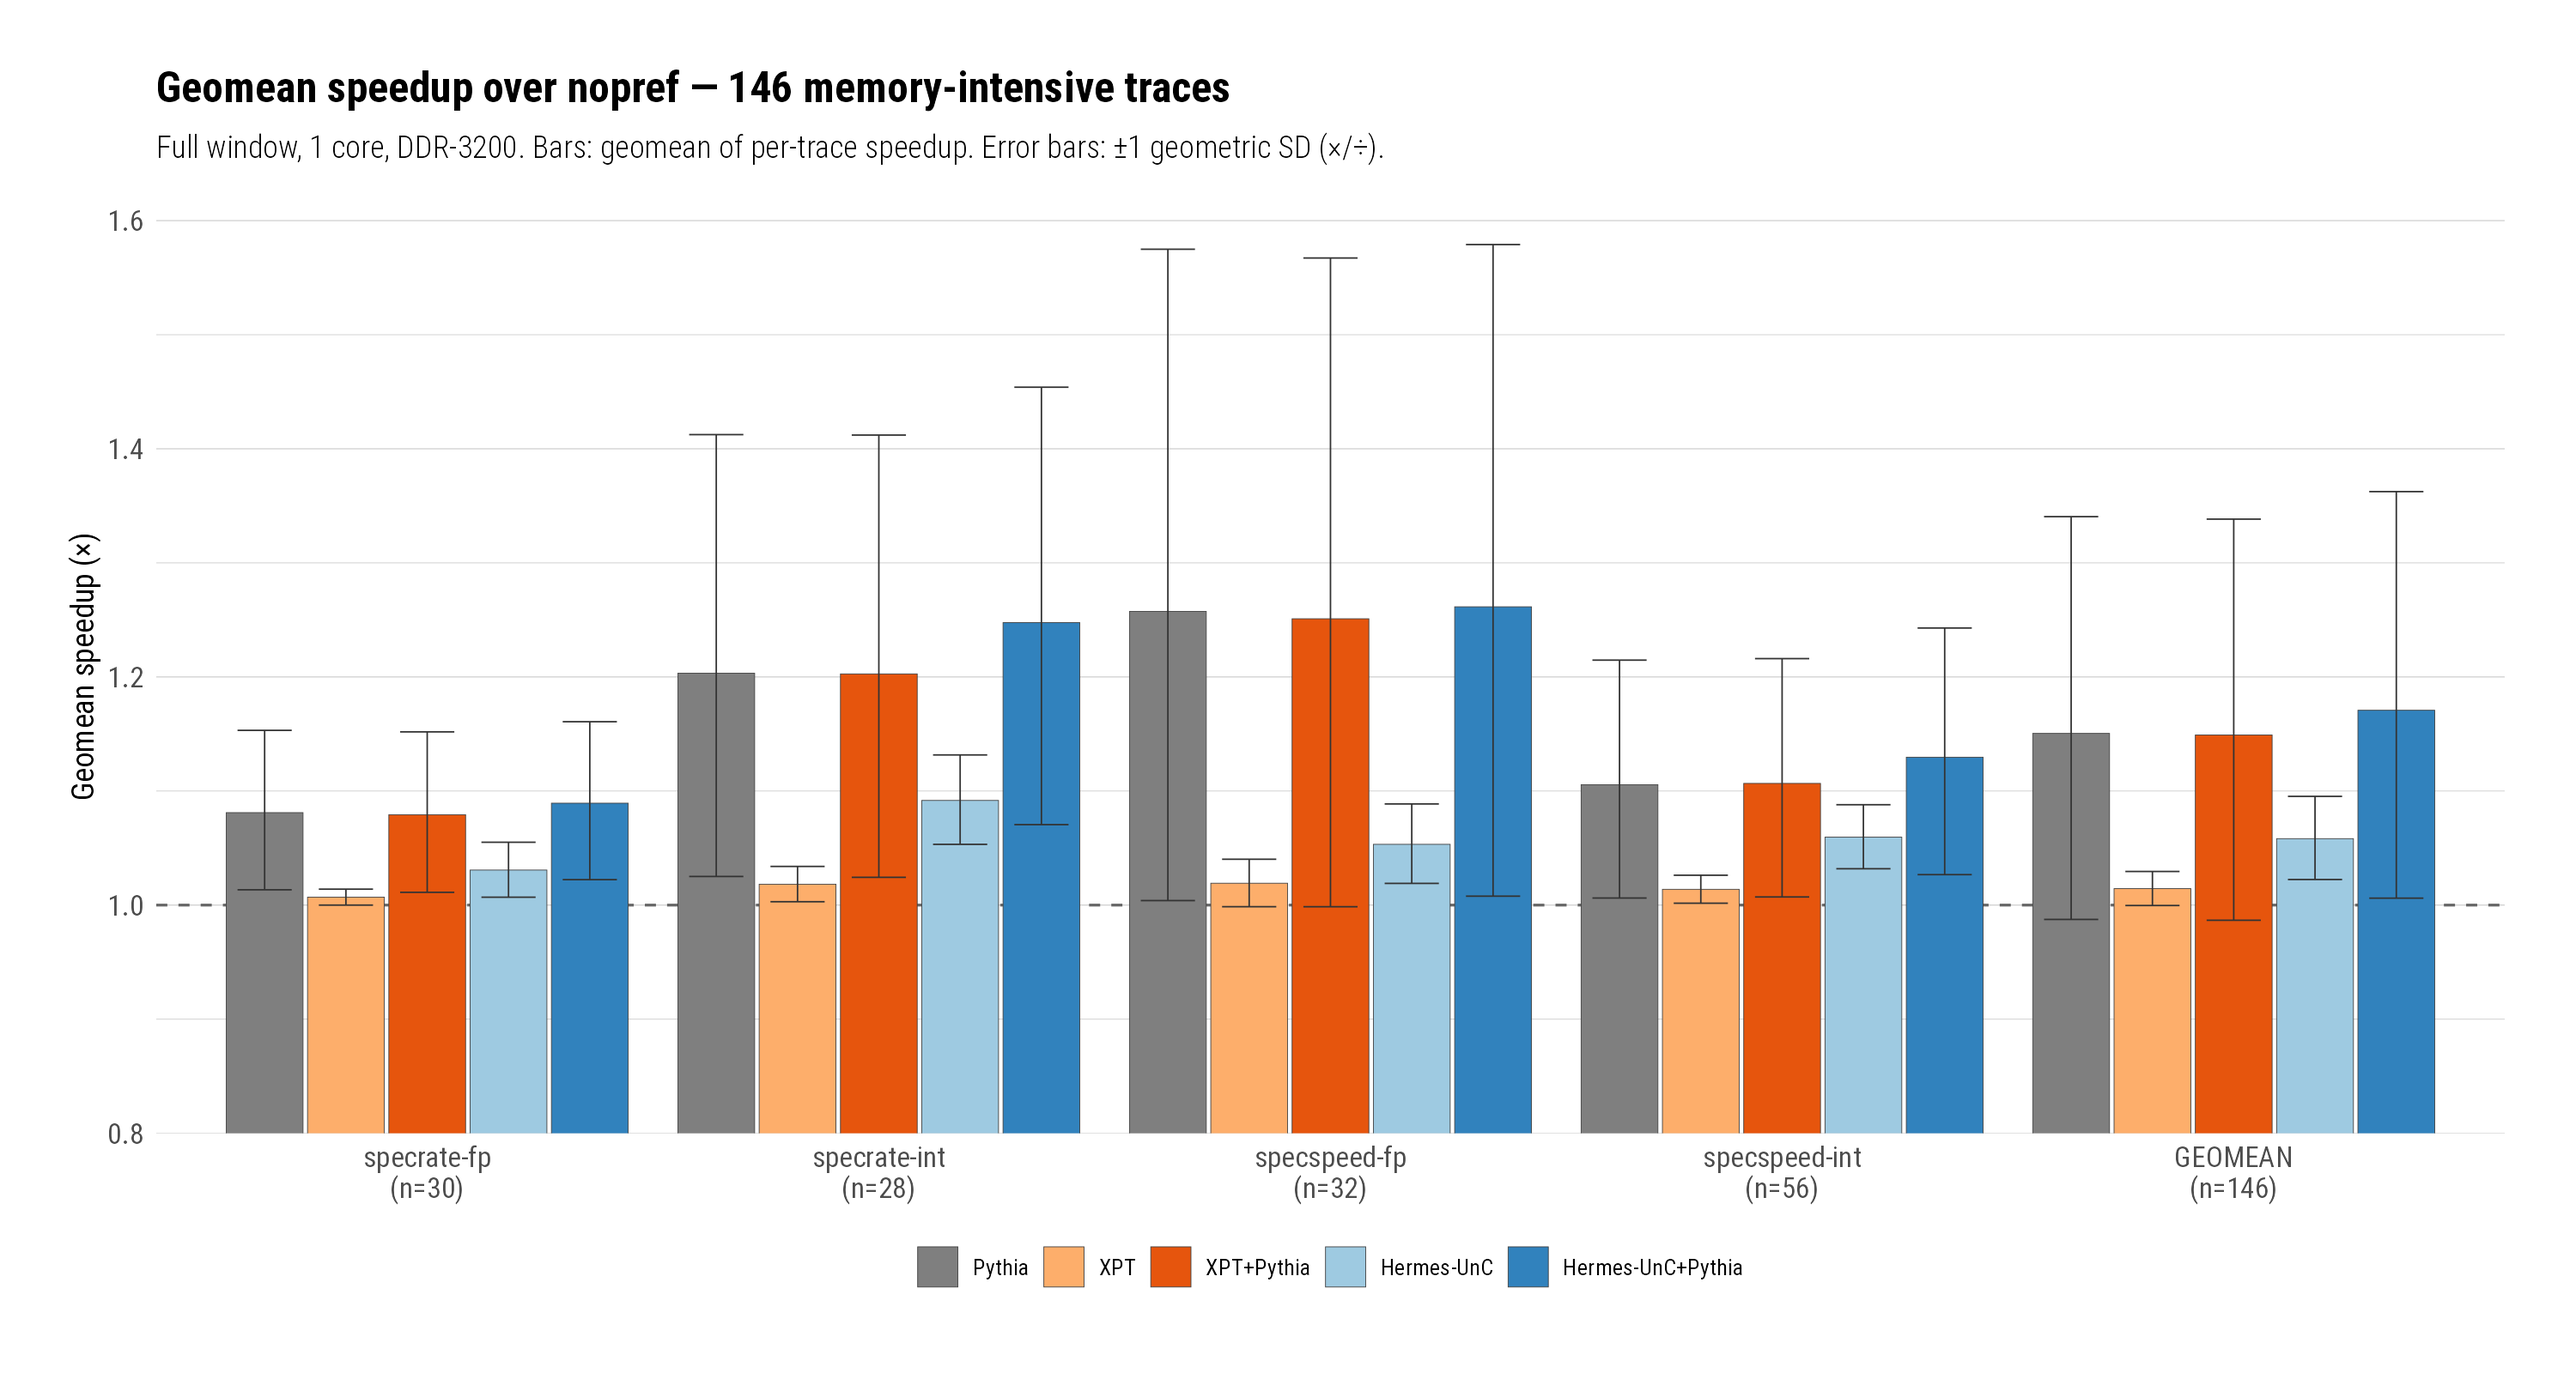
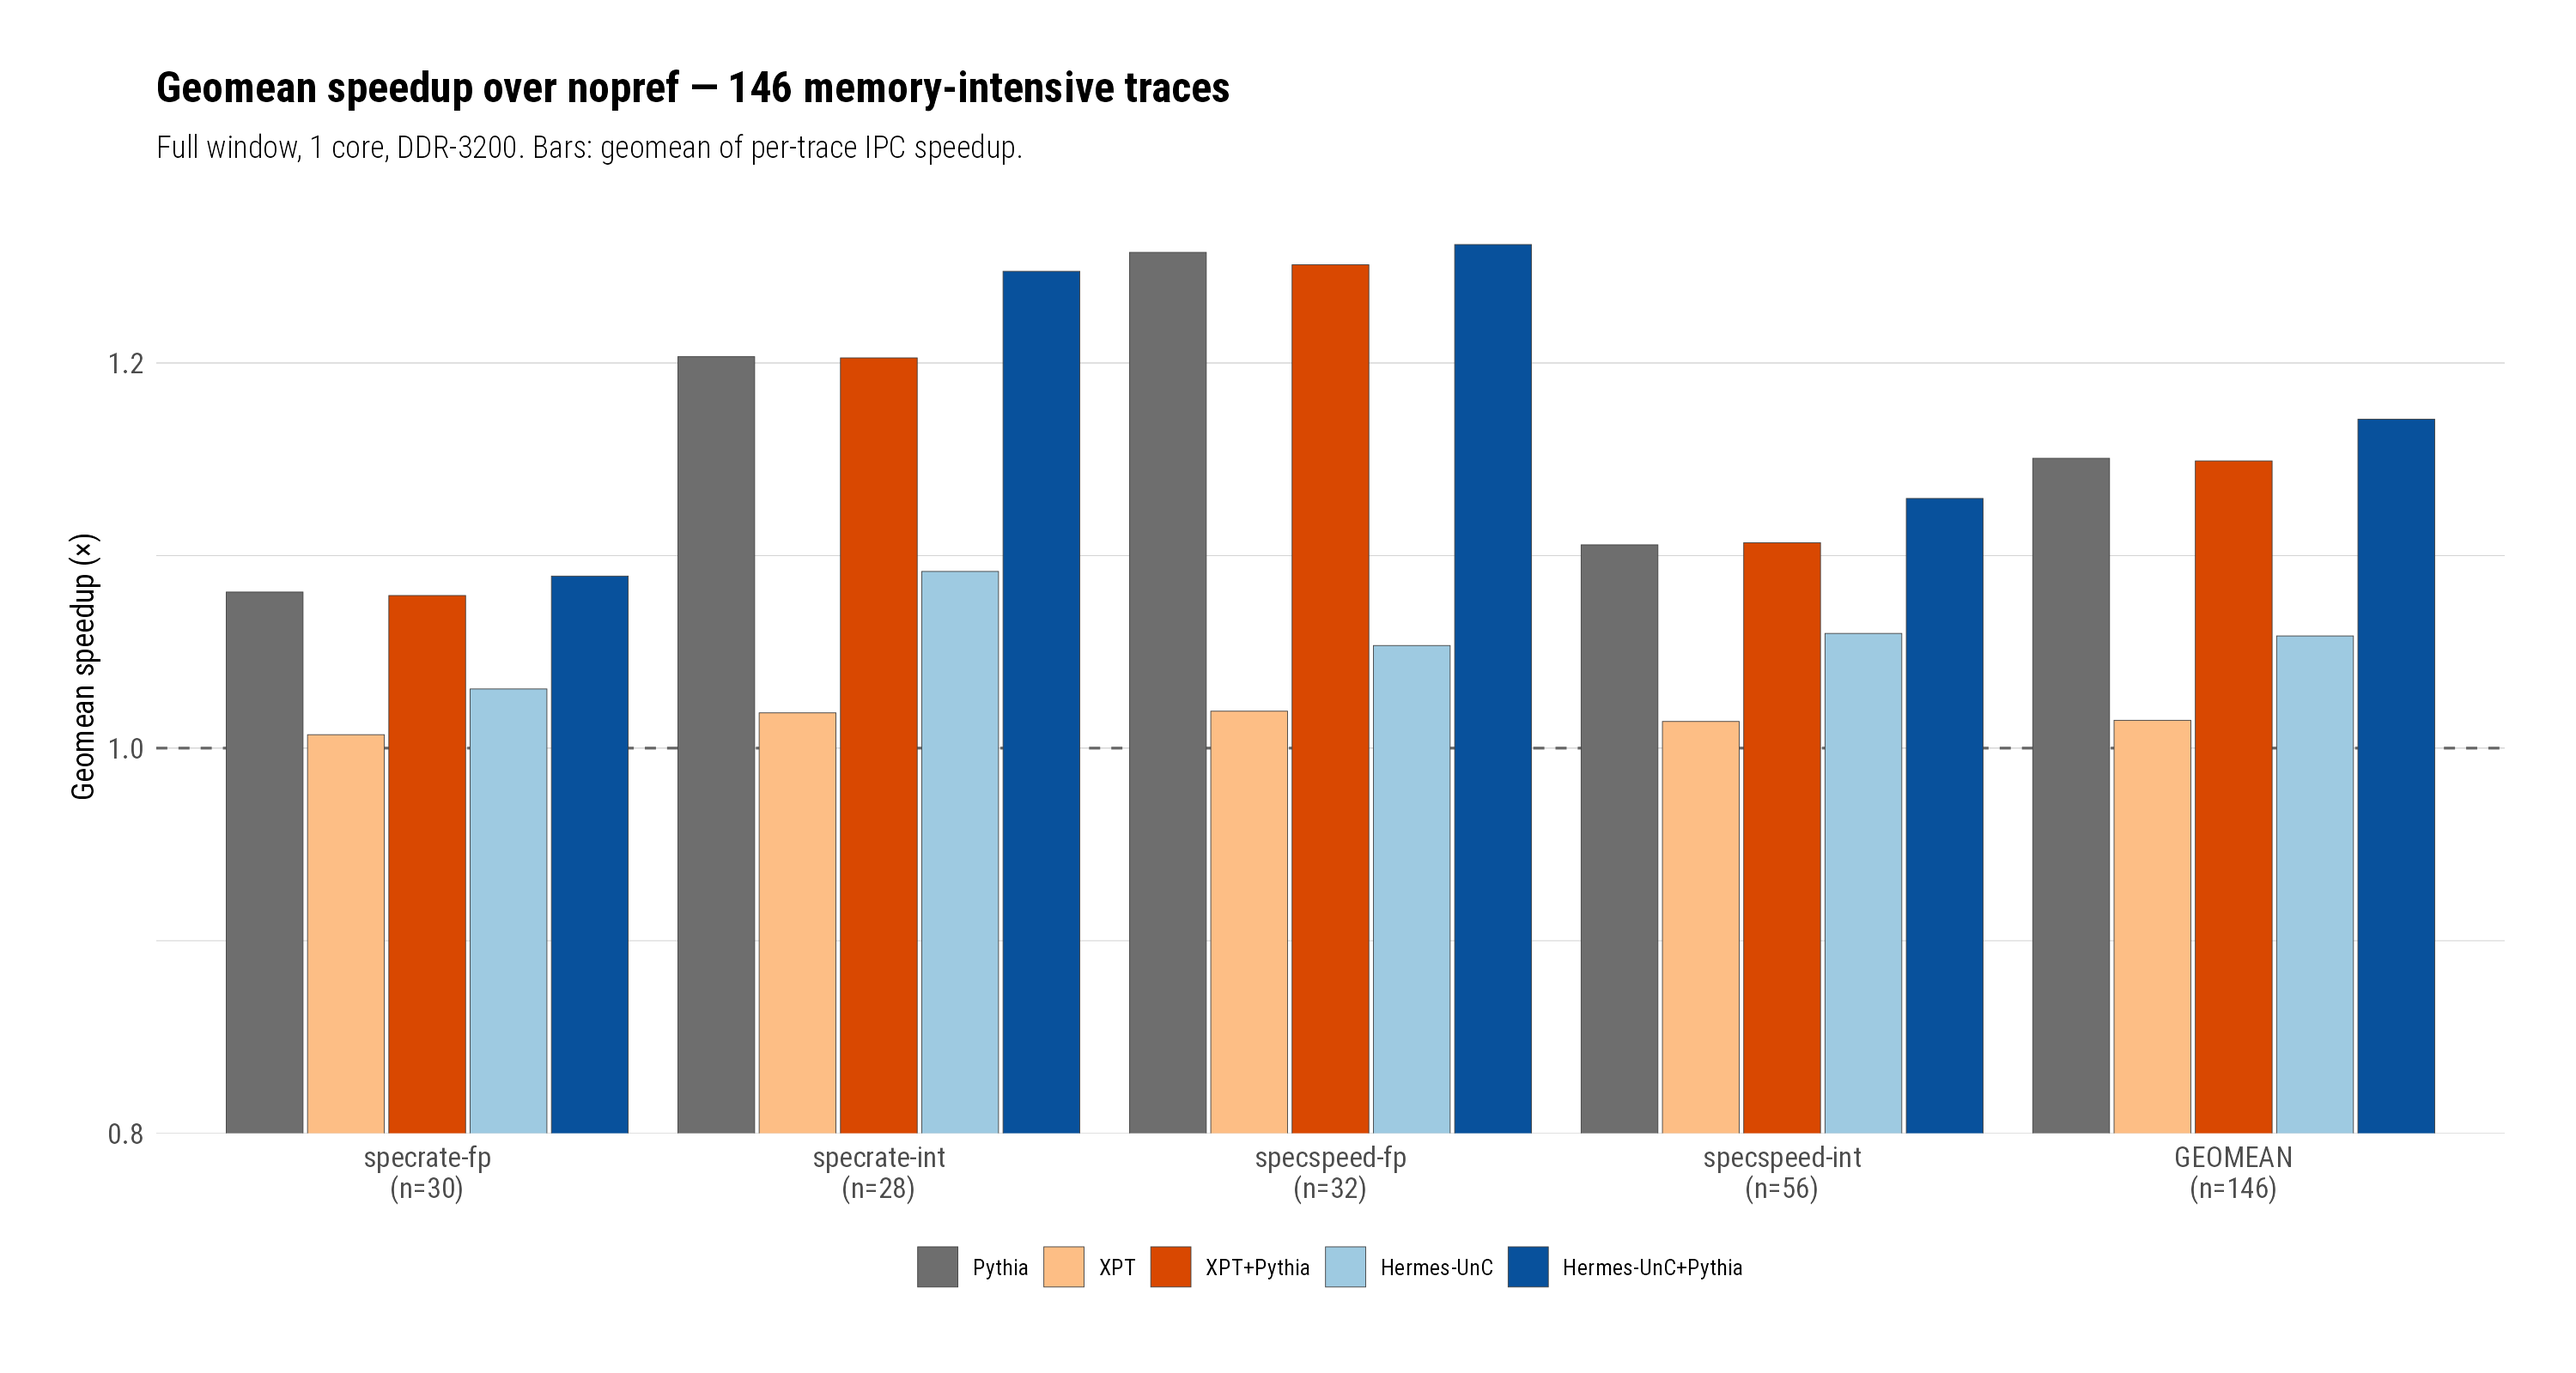
analysis: shared style module (consistent palette, no error bars); regen category chart

diff --git a/analysis/CHARTLOG.md b/analysis/CHARTLOG.md
@@ -6,3 +6,15 @@ charts). One entry below per generated chart.
 | date | chart file | script | workbook sheet(s) | notes |
 |------|-----------|--------|-------------------|-------|
 | 2026-07-12 | charts/speedup_membound146_bw3200.{png,pdf} | scripts/plot_speedup_membound146.R (adapted from runs/cluster/plot_speedup.R) | membound146_bw3200 | 5 configs vs nopref; categories specrate-fp/int, specspeed-fp/int, GEOMEAN (unweighted geomean per category); geo-SD error bars; numbers in charts/speedup_membound146_bw3200_numbers.csv |
+
+## Style conventions (established 2026-07-12) — apply to ALL paper charts
+- Canonical palette + config order live in scripts/hermes_style.R; every
+  chart script `source()`s it so colors are identical across figures.
+  Palette: grey=Pythia, orange family=XPT (light=alone, strong=+Pythia),
+  blue family=Hermes-UnC (light=alone, strong=+Pythia); greens reserved
+  for Hermes size variants. Edit hermes_style.R once to restyle everything.
+- NO error bars unless explicitly requested.
+- "Hermes-UnC" = Normal variant by default.
+
+Update: speedup_membound146_bw3200 chart re-generated 2026-07-12 — dropped
+error bars, switched to hermes_style.R palette.
